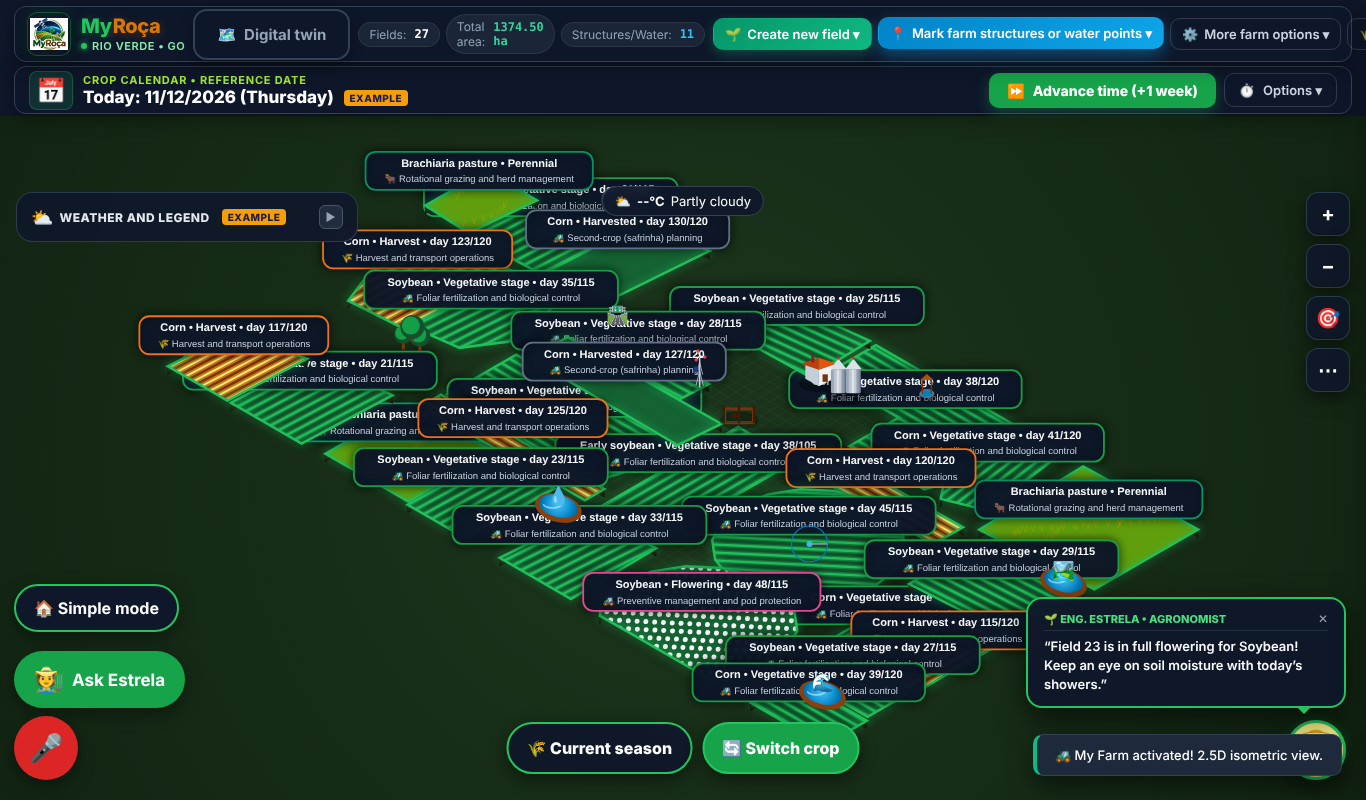
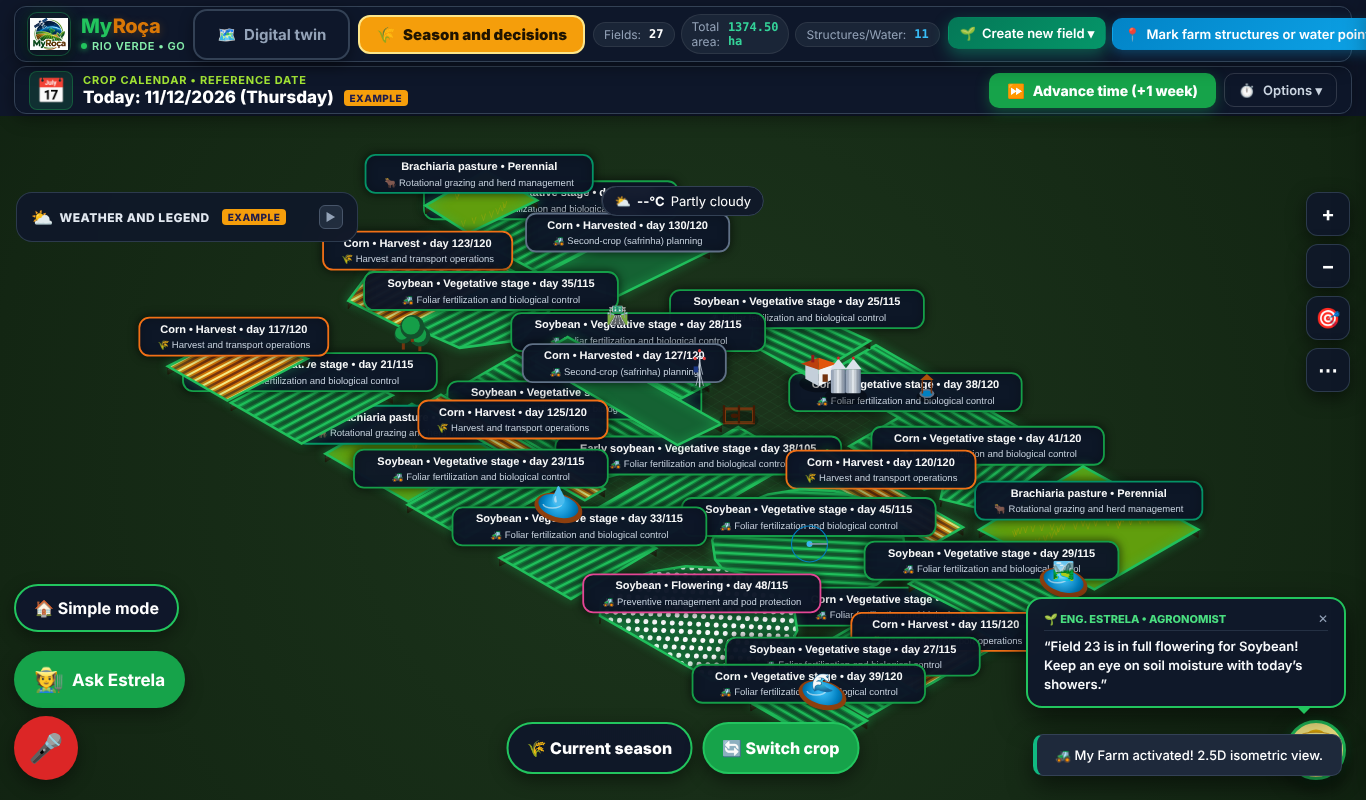
Botão 'Safra e decisões' em destaque no começo da barra superior; botões flutuantes reposicionados no celular; teste de fluxo atualizado
Claude-Session: https://claude.ai/code/session_01UBf98vezEkvFGqX1vnPZjt

Changed region(s): [[0.0922, 0.1875, 0.8917, 0.9062], [0.246, 0.0, 1.0, 0.0938]]

diff --git a/src/index.css b/src/index.css
@@ -3319,4 +3319,12 @@ path.holo-glow { filter: blur(4px); }
 #safra-fab button { min-height: 52px; padding: 0 18px; border-radius: 999px; border: 2px solid #22c55e; background: rgba(15,23,42,.92); color: #fff; font-size: 16px; font-weight: 800; cursor: pointer; box-shadow: 0 6px 18px rgba(0,0,0,.45); backdrop-filter: blur(6px); text-align: left; }
 #safra-fab button.primary { background: #16a34a; }
 body.mode-simple #safra-fab { display: none; }
-@media (max-width: 700px) { #safra-fab { bottom: 96px; } #safra-fab button span { display: none; } #safra-fab button { padding: 0 18px; font-size: 22px; } }
+@media (max-width: 700px) { #safra-fab { left: auto; right: 14px; transform: none; bottom: 150px; flex-direction: column; } #safra-fab button span { display: none; } #safra-fab button { padding: 0 18px; font-size: 22px; } }
+
+/* Botão principal "Safra e decisões" no começo da barra superior */
+.btn-safra-main { background: #f59e0b; color: #1f1300; border: 2px solid #fde68a; font-weight: 900; font-size: 15px; padding: 8px 16px; border-radius: 12px; white-space: nowrap; cursor: pointer; flex: none; animation: safraPulse 2.6s ease-out infinite; }
+.btn-safra-main:hover { background: #fbbf24; }
+.btn-safra-main .btn-text { display: inline !important; }
+@keyframes safraPulse { 0% { box-shadow: 0 0 0 0 rgba(245,158,11,.65); } 70% { box-shadow: 0 0 0 12px rgba(245,158,11,0); } 100% { box-shadow: 0 0 0 0 rgba(245,158,11,0); } }
+@media (max-width: 700px) { .btn-safra-main .btn-text { display: none !important; } .btn-safra-main { padding: 8px 12px; } }
+@media (prefers-reduced-motion: reduce) { .btn-safra-main { animation: none; } }

diff --git a/src/index.ts b/src/index.ts
@@ -154,6 +154,10 @@ class AgroApp {
             </button>
           </div>
 
+          <button class="btn btn-safra-main" id="btn-rotation" title="${sf('hub')}">
+              <span>🌾</span> <span class="btn-text">${sf('hub')}</span>
+            </button>
+
           <!-- Metric Pills -->
           <div class="stats-group">
             <div class="stat-pill" title="${t('fields')}">
@@ -230,9 +234,7 @@ class AgroApp {
               </div>
             </div>
 
-            <button class="btn btn-outline btn-rotation-open" id="btn-rotation" title="${rt('title')}">
-              <span>🌾</span> <span class="btn-text">${sf('hub')}</span>
-            </button>
+
             <button class="btn btn-outline btn-logout-user" id="btn-logout" title="${at('logout')}">
               <span>👤</span> <span class="btn-text">${(currentUser()?.id === 'guest' ? at('guestName') : (currentUser()?.name || '')).split(' ')[0].replace(/[&<>"']/g, '')}</span> <span>⎋</span>
             </button>

diff --git a/tests/fluxo-demo.js b/tests/fluxo-demo.js
@@ -45,7 +45,7 @@ const ok = (n, c, extra='') => console.log((c ? 'OK   ' : 'FALHA') + ' | ' + n +
   await p.click('#estela-close');
   // 8. Planejar safra
   await p.click('#sh-plan'); await p.waitForTimeout(1200);
-  const rot = await p.$('.rot-modal, .rotation-modal, #rotation-planner, [class*=rotation]');
+  const rot = await p.$('.rot-card .sf-tabs');
   ok('8 Planejador de safra abre', !!rot);
   await p.screenshot({ path: 'flow_rot.png' });
   await p.click('.rot-x'); await p.waitForTimeout(400);
